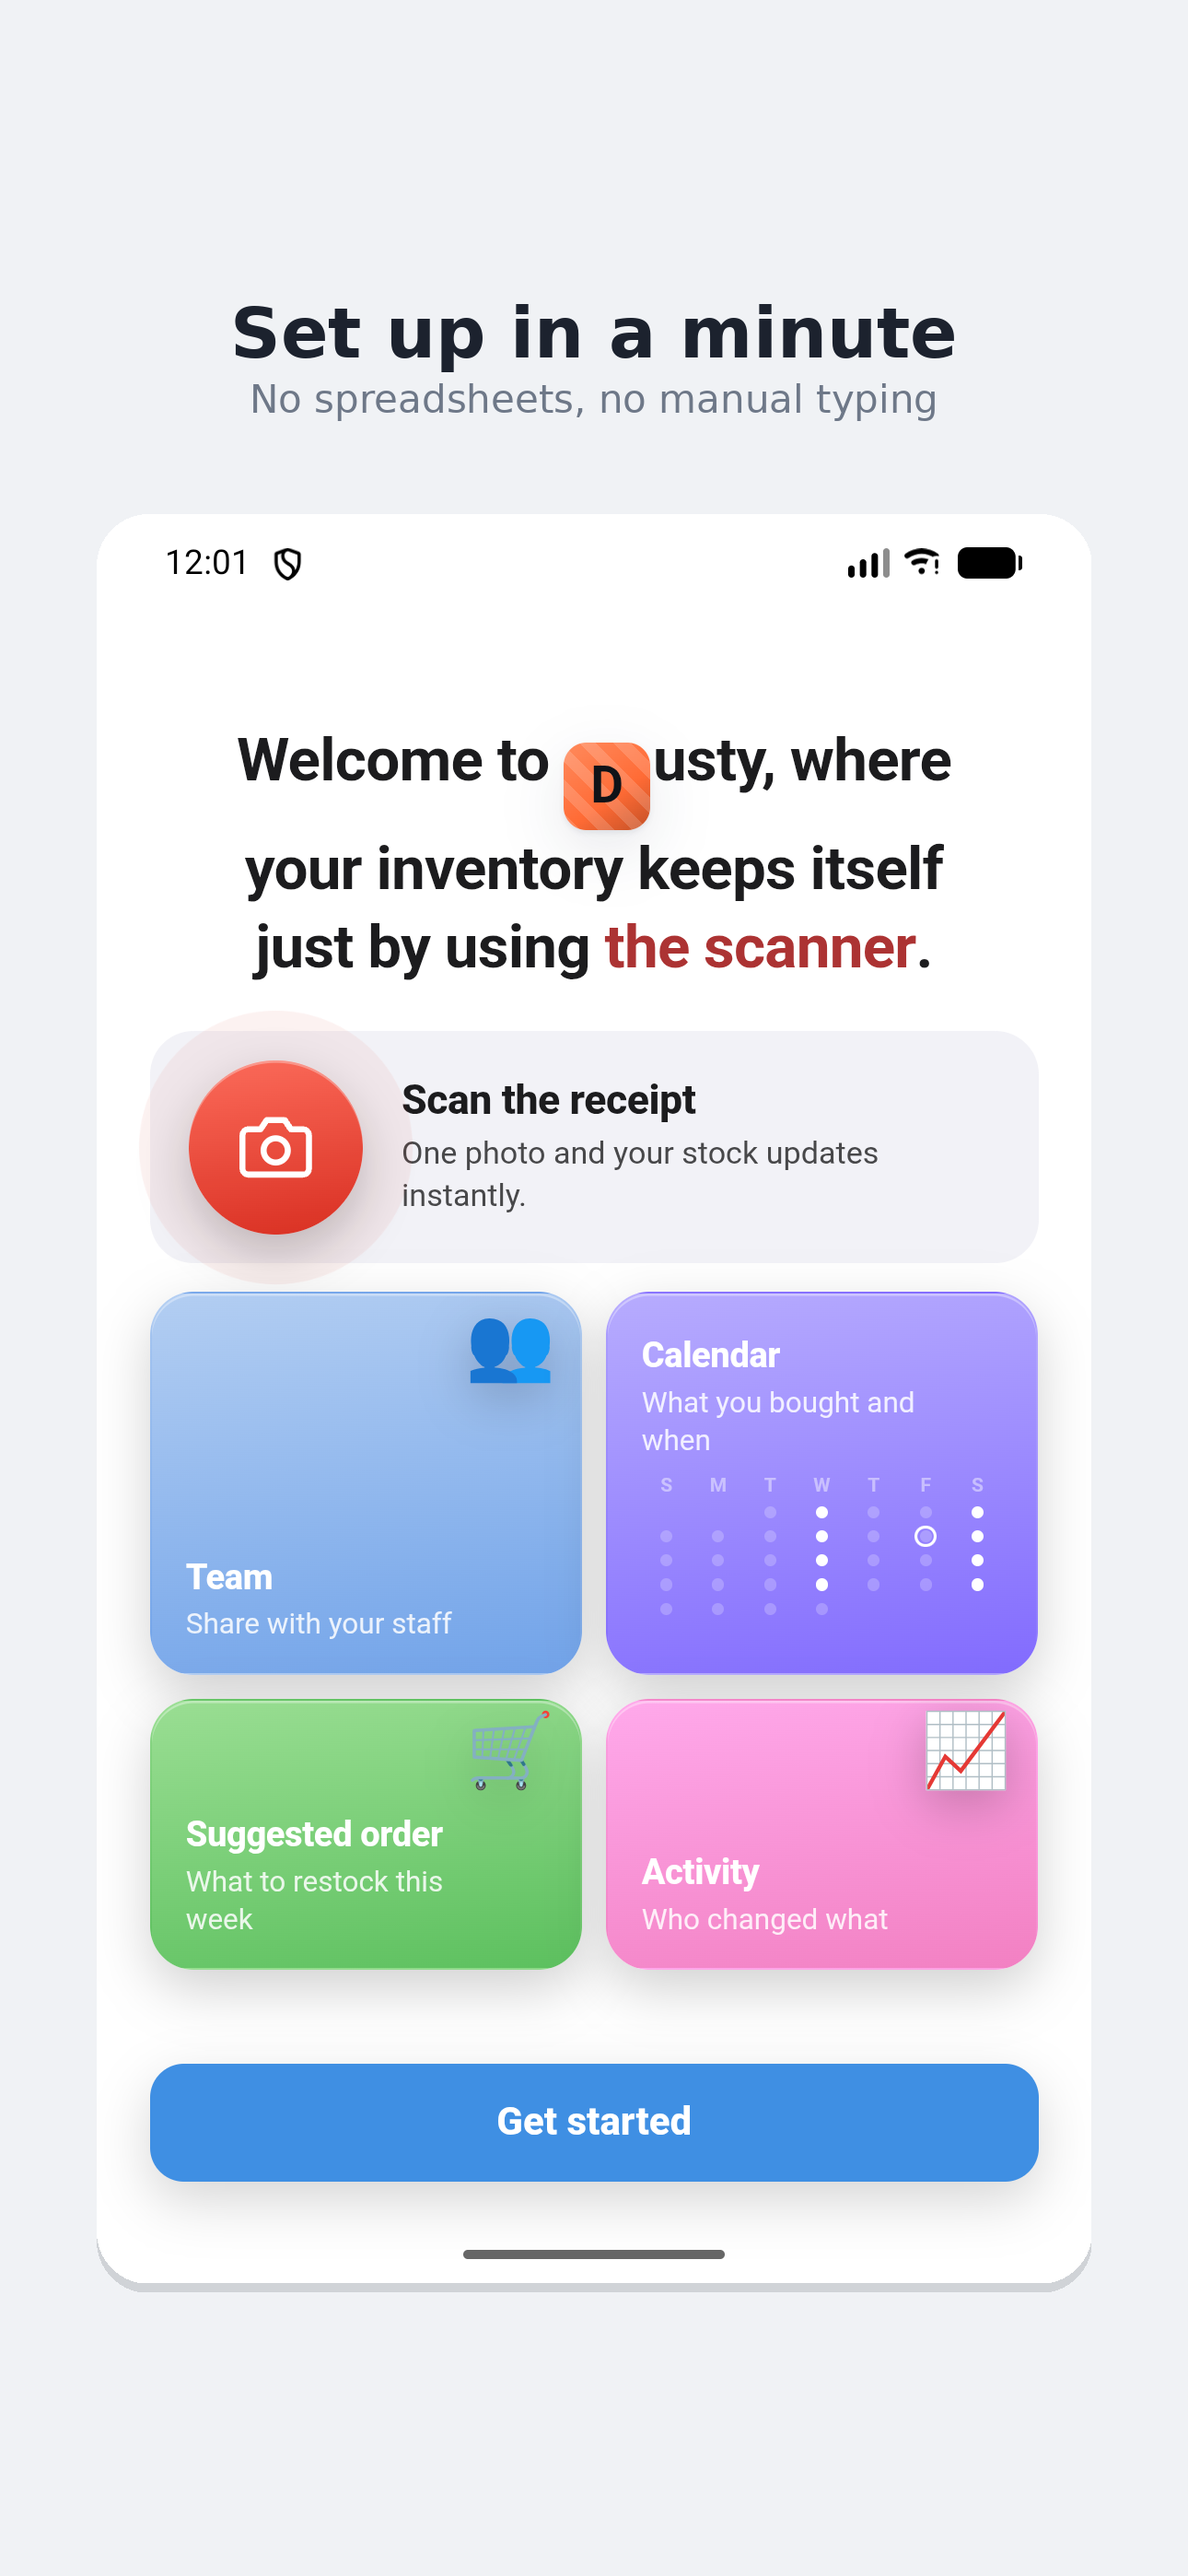
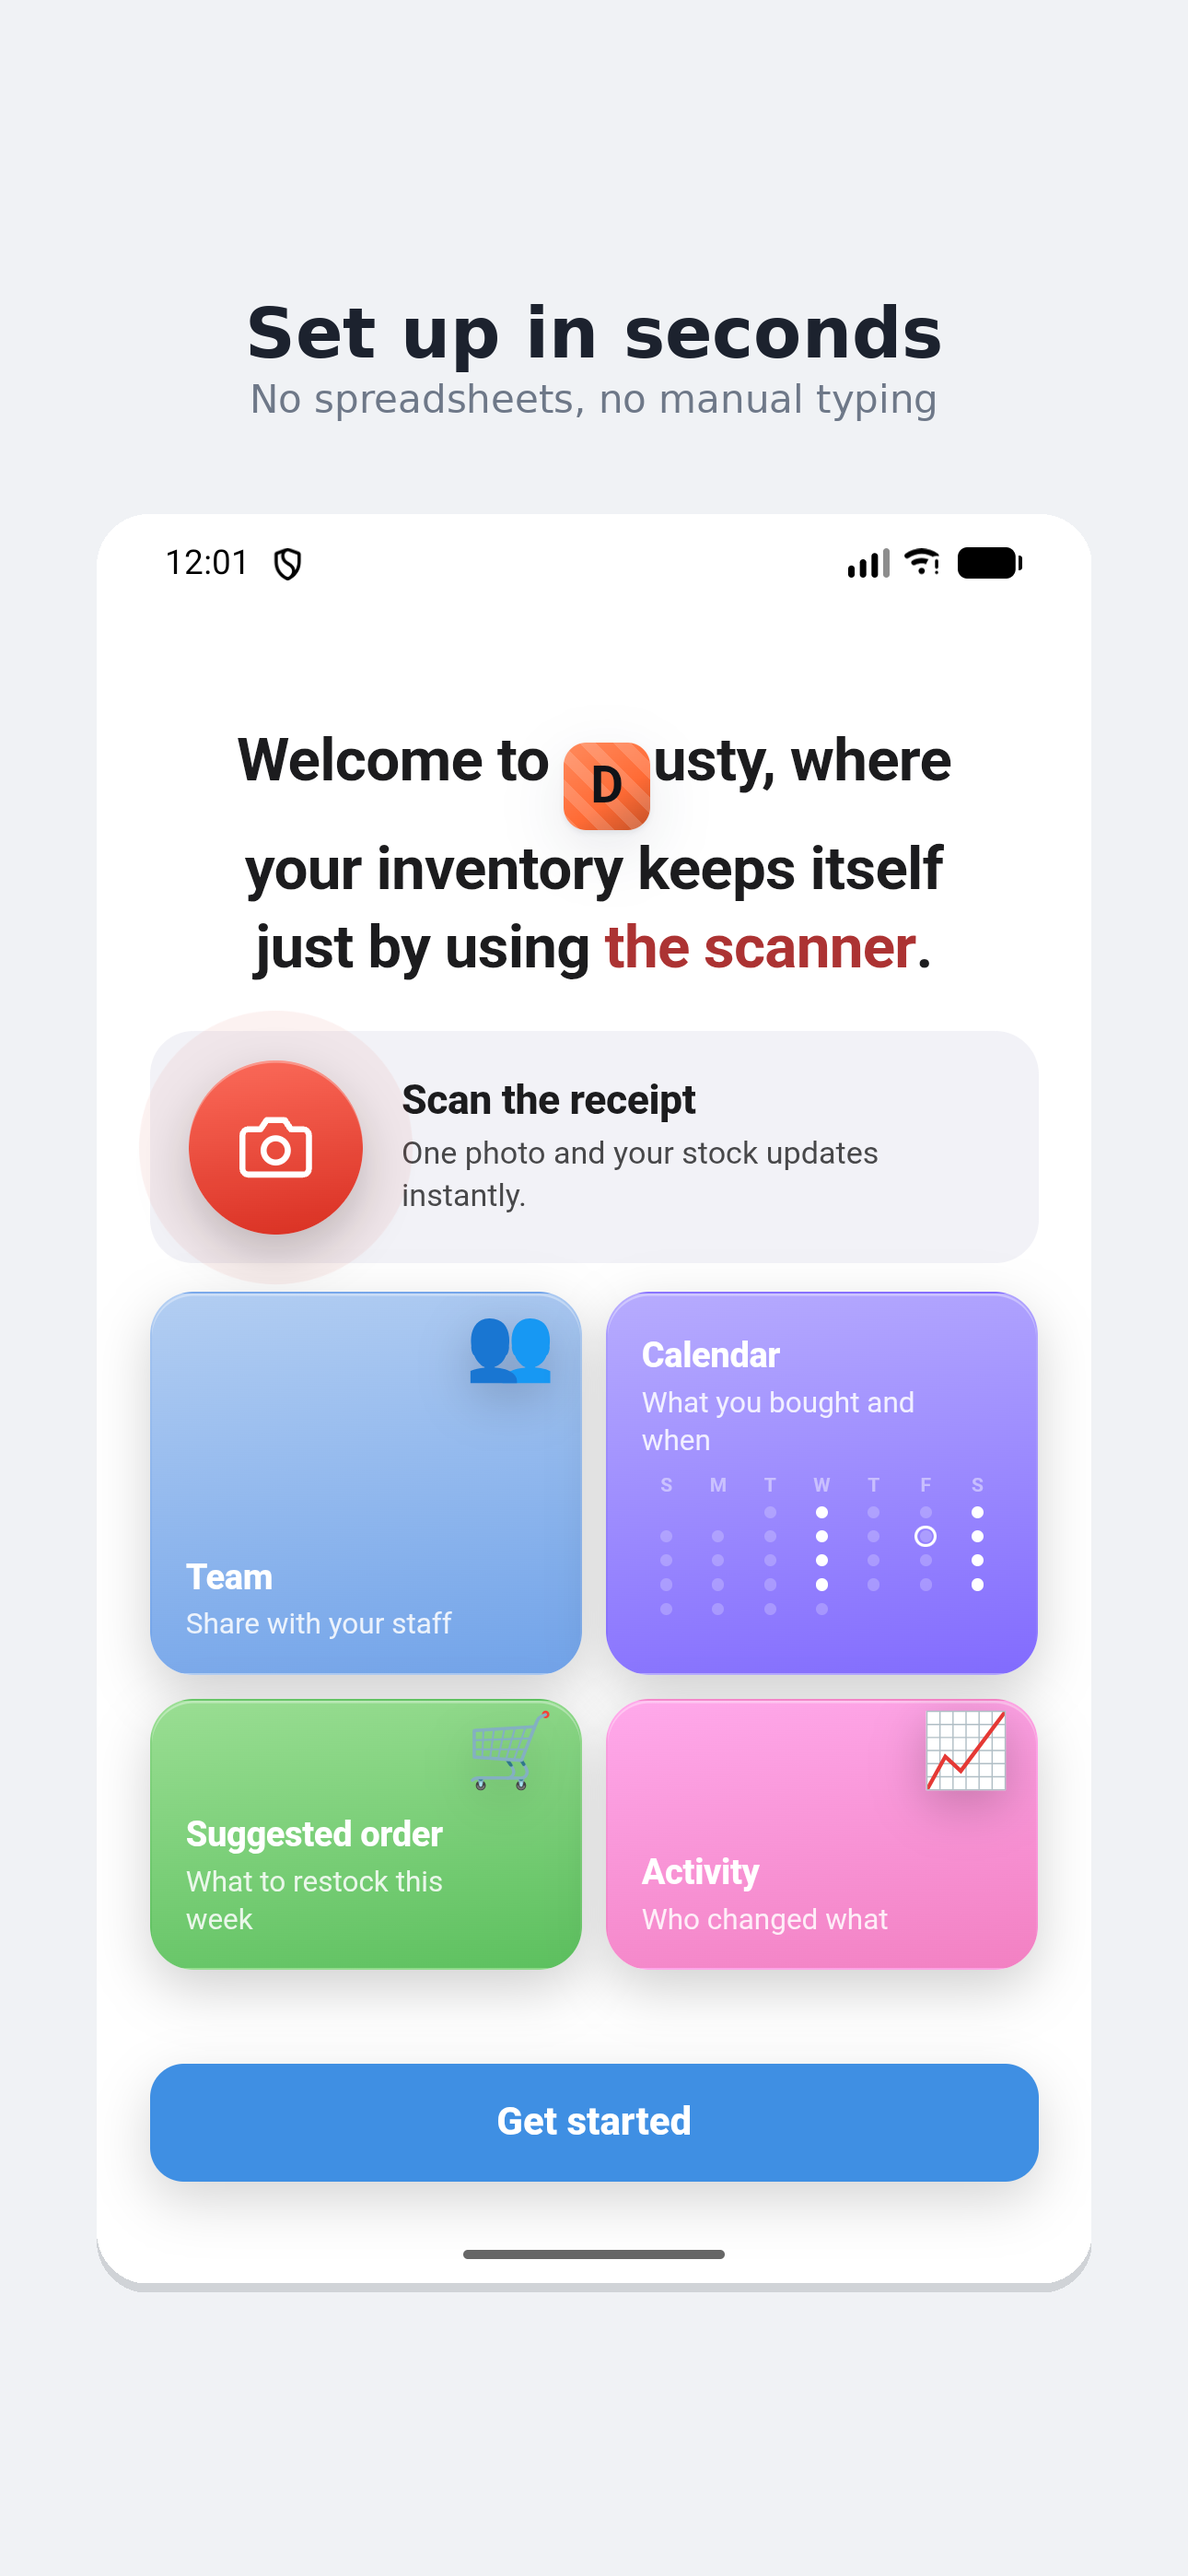
Captura de bienvenida: "Set up in seconds" en vez de "in a minute"
Lo que promete la pantalla es que no hay que cargar nada a mano, y "un minuto"
suena a trámite igual. Pedido del usuario.

Claude-Session: https://claude.ai/code/session_01QHYvS7ErrmfPLF5JLpFZV7

Changed region(s): [[0.186, 0.0933, 0.8062, 0.1556]]

diff --git a/scripts/build-ios-screenshots.py b/scripts/build-ios-screenshots.py
@@ -35,7 +35,7 @@ CAPTURAS = [
     ('03-inventory.png',            'Stock that counts itself',  'Every receipt updates what you have'),
     ('04-month-recap-reports.png',  'Know before it hurts',      'Price jumps and overspending, flagged early'),
     ('05-production.png',           'From ingredients to plates','Recipes discount stock as you produce'),
-    ('01-welcome.png',              'Set up in a minute',        'No spreadsheets, no manual typing'),
+    ('01-welcome.png',              'Set up in seconds',         'No spreadsheets, no manual typing'),
 ]
 
 def fuente(tam, negrita=False):
